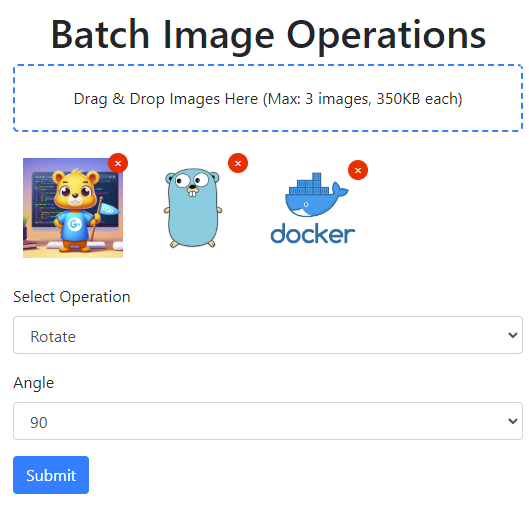
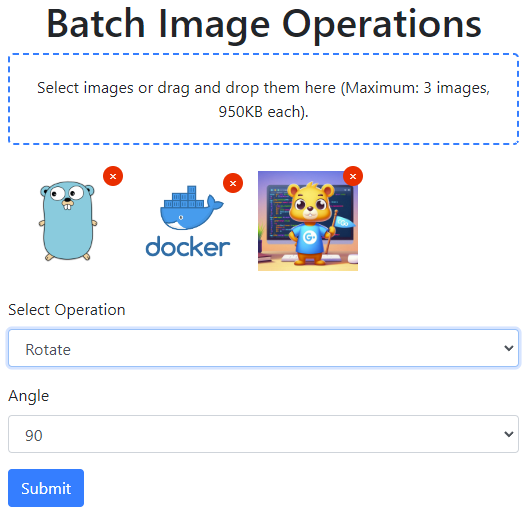
Increased image size limits, fixed image selection bugs

Changed region(s): [[0.0, 0.0, 1.0, 0.5315], [0.0, 0.561, 1.0, 1.0], [0.9412, 0.7972, 1.0, 0.8858]]

diff --git a/static/index.html b/static/index.html
@@ -52,8 +52,9 @@
 <div class="container mt-5">
     <h1 class="text-center">Batch Image Operations</h1>
     <div id="dropzone" class="dropzone">
-        Drag & Drop Images Here (Max: 3 images, 350KB each)
+        Select images or drag and drop them here (Maximum: 3 images, 950KB each).
     </div>
+    <input type="file" id="fileInput" accept="image/*" multiple style="display:none;">
     <div class="preview mt-3"></div>
     <form id="operationForm" class="mt-3">
         <div class="form-group">
@@ -92,6 +93,7 @@
 <script>
     const dropzone = document.getElementById('dropzone');
     const preview = document.querySelector('.preview');
+    const fileInput = document.getElementById('fileInput');
     const operationForm = document.getElementById('operationForm');
     const rotateParams = document.getElementById('rotateParams');
     const resizeParams = document.getElementById('resizeParams');
@@ -112,14 +114,44 @@
         e.preventDefault();
         dropzone.classList.remove('dragover');
 
-        const files = Array.from(e.dataTransfer.files);
-        files.forEach(file => {
-            if (file.type.startsWith('image/') && images.length < 3 && file.size <= 350 * 1024) {
-                images.push(file);
-                renderImagePreview(file);
-            }
-        });
+        handleFiles(e.dataTransfer.files);
     });
+
+    dropzone.addEventListener('click', () => {
+        fileInput.click();
+    });
+
+    fileInput.addEventListener('change', (e) => {
+        handleFiles(e.target.files);
+    });
+
+    function handleFiles(files) {
+        const fileArray = Array.from(files);
+
+        fileArray.forEach(file => {
+            // Check if the file type is an image
+            if (!file.type.startsWith('image/')) {
+                alert('Error: The selected file is not an image.');
+                return; // Skip to the next file
+            }
+
+            // Check if the image limit is reached
+            if (images.length >= 3) {
+                alert('Error: You can only upload up to 3 images.');
+                return; // Skip to the next file
+            }
+
+            // Check if the file size exceeds the limit
+            if (file.size > 950 * 1024) {
+                alert('Error: The selected file exceeds the size limit of 950KB.');
+                return; // Skip to the next file
+            }
+
+            // If all conditions are met, add the image and render the preview
+            images.push(file);
+            renderImagePreview(file);
+        });
+    }
 
     function renderImagePreview(file) {
         const imgContainer = document.createElement('div');

diff --git a/constants.go b/constants.go
@@ -2,7 +2,7 @@ package main
 
 const (
 	MaxBatchSize         = 3
-	MaxUploadSize        = 350 << 10 // 350 KB
+	MaxUploadSize        = 950 << 10 // 950 KB
 	MaxResizePixels      = 1024
 	MinEnlargePercentage = 1
 	MaxEnlargePercentage = 200

diff --git a/README.md b/README.md
@@ -26,7 +26,7 @@ Image processing service is a demo web application that allows users to upload m
 <a id="usage"></a>
 ## Usage
 1. Open the application in your browser.
-2. Drag and drop images into the dropzone (Maximum 3 images, 350KB each).
+2. Drag and drop images into the dropzone (Maximum 3 images, 950KB each).
 3. Choose an operation from the dropdown:
     - **Rotate**: Rotate the images by 90, 180, or 270 degrees.
     - **Resize**: Set the desired width and height to resize the images.
